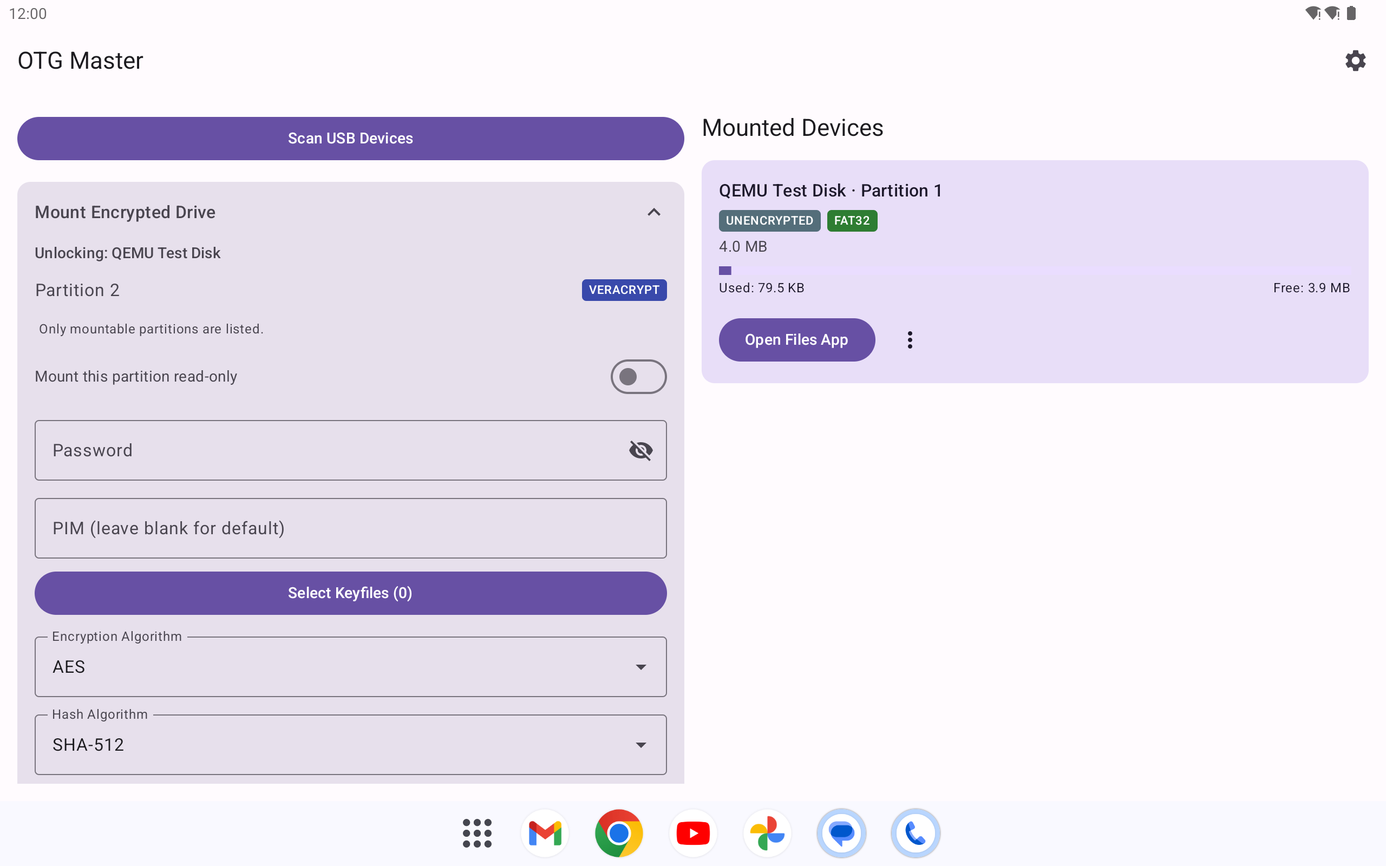
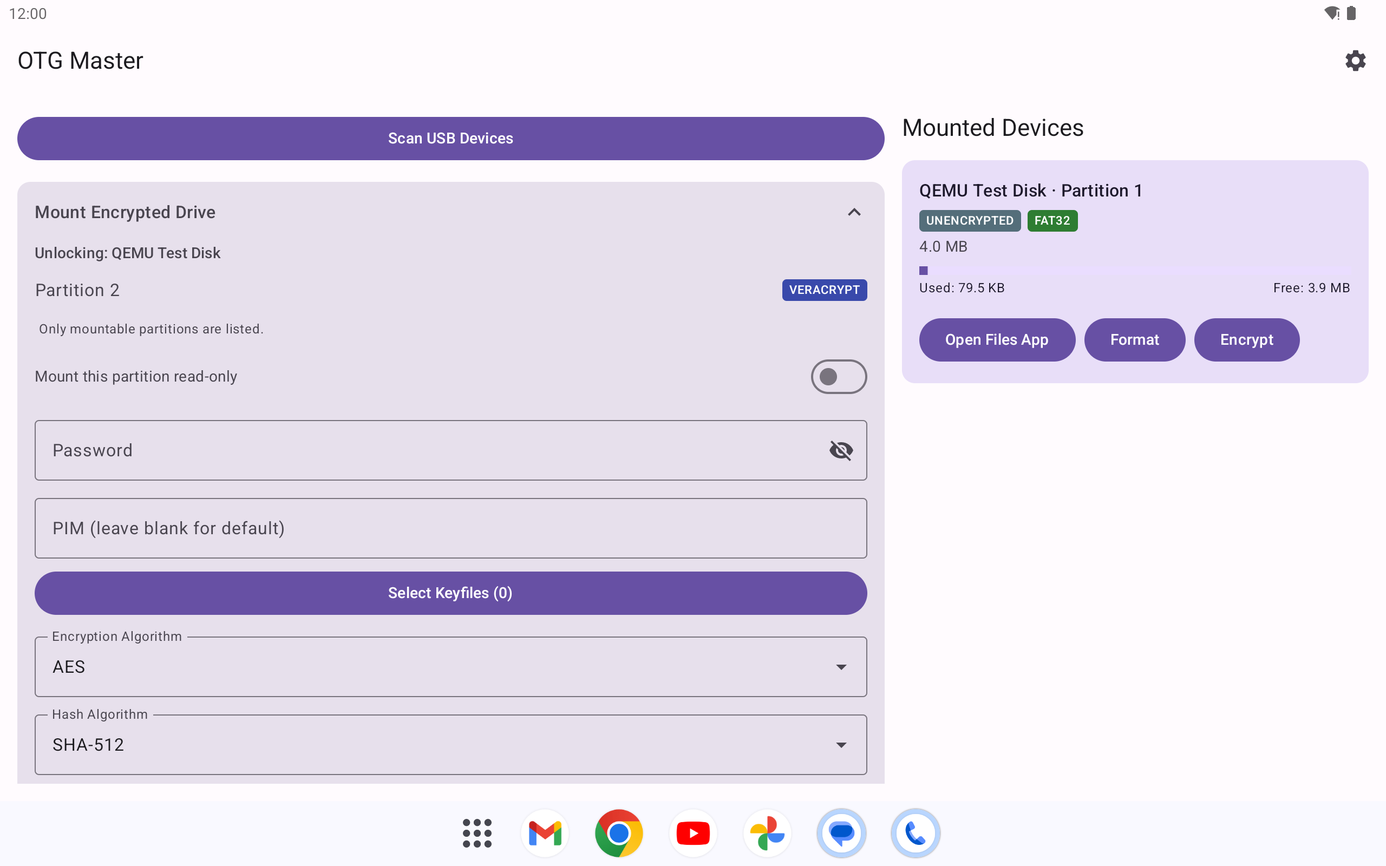
docs: v0.4.2 regression report, the release matrix on 6e281db, store screenshots
The tag's report (docs/test-reports/v0.4.2.md) and the runs it rests on.

BENCHMARK_RUNS: the 0.4.2 release matrix on 6e281db (= de98da6 on main),
10-18 to 10-22. Pixel 7 Pro and OnePlus 7: Drives 1-5, every partition
passed, every drive host-checked; one host finding, D1FAT32 after the Pixel
(dirty flag, free count off by one), from the Pixel's vold mounting plain
FAT32 itself, repaired. Samsung M30: Drives 1-3 pass after reruns; Drive 5
FAILED - two partitions passed, six attempts lost the stick to USB dropouts
(the stick stays enumerated but stops answering; the same sticks pass on
the other phones). The two cut-off writes the host checker caught (NTFS
$Bitmap behind the MFT, a stale FAT32 FSInfo count) are recorded and were
restored; two later cut-offs are not yet host-checked and are listed as
pending. Runs with no result are listed.

The report names three devices on the release build. Rule 3 asks for
four; the user decided to tag now and add the fourth after, since the
release goes to Play's internal track first and can be halted. The report
says so at the top.

Store screenshots:
- 4_mounted (phone): retaken on the OnePlus 7 on 6e281db - VeraCrypt FAT32,
  VeraCrypt exFAT and LUKS1 ext4 cards with the More actions button; the
  old shot showed the 0.4.1 overflow icon.
- 7" and 10" sets: retaken on the Tablet_7inch and Tablet_10inch emulators
  on 6e281db, partitioned_mbr fixture as the QEMU USB drive, demo status
[…]

diff --git a/docs/BENCHMARK_RUNS.md b/docs/BENCHMARK_RUNS.md
@@ -33,6 +33,300 @@ to a row here.
 
 ---
 
+## 2026-10-18 (night) to 2026-10-22 — the 0.4.2 release matrix on `6e281db` (= `de98da6`)
+
+The matrix restarted on the final 0.4.2 tree once #74–#78 were in. Every report below says
+`build: 0.4.2 (48) commit 6e281db`, checked against the APK installed before each drive; `6e281db`
+is #78's head and landed on `main` as `de98da6` with an identical tree (hash table in the section
+below). Same procedure as the round below: one partition per run via `sequence_runs.sh` →
+`start_run.sh`, the "full" section set, password123 / PIM 1 / AES / SHA-512 unless the partition
+says otherwise (Drive 5 partitions carry their own cipher, KDF and PIM). After each drive's runs
+it went to the laptop: `read_matrix_drive.sh` + `verify_matrix_drive.py` (Drives 1–4), or
+`verify_volume.sh` + manifest hashes per partition (Drive 5, `hostcheck_d5.sh`).
+
+Devices: **Pixel 7 Pro** (Android 17, SDK 37), **OnePlus 7** (GM1901, LineageOS 23.2, Android 16),
+**Samsung M30** (SM-M305F, Android 10). Drive 5 exists twice: the original (…EF449) and a copy
+built from the same script (…EF455).
+
+| | Drive 1 | Drive 2 | Drive 3 | Drive 4 | Drive 5 |
+|---|---|---|---|---|---|
+| Pixel 7 Pro | 10/10 ✓ · host: D1FAT32 NOT CLEAN (vold, below) | 10/10 ✓ · ALL CLEAN | 10/10 ✓ · ALL CLEAN | 10/10 ✓ · ALL CLEAN | 10/10 ✓ (…EF455) · ALL CLEAN |
+| OnePlus 7 | 10/10 ✓ · ALL CLEAN | 10/10 ✓ · ALL CLEAN | 10/10 ✓ · ALL CLEAN | 10/10 ✓ · ALL CLEAN | 10/10 ✓ (…EF449, p10 rerun) · ALL CLEAN |
+| Samsung M30 | 10/10 ✓ (D1EXT4 rerun) · ALL CLEAN | 10/10 ✓ · ALL CLEAN | 10/10 ✓ (two reruns) · ALL CLEAN | not run | **FAILED** — 2 partitions passed, then USB dropouts (below) |
+
+### Pixel 7 Pro · Drive 1 · 10-20 07:21 – 09:34
+
+| Partition | Finished | bigwrite write / read-back (MB/s) | Fixtures | Verdict |
+|---|---|---|---|---|
+| D1FAT32 | 07:34 | 8.17 / 35.75 | ALL 20995 MATCHED | all ✓ |
+| D1EXFAT | 07:45 | 9.38 / 38.46 | ALL 20963 MATCHED | all ✓ |
+| D1NTFS | 08:05 | 3.16 / 35.27 | ALL 21052 MATCHED | all ✓ |
+| D1EXT4 | 08:18 | 6.17 / 41.87 | ALL 20854 MATCHED | all ✓ |
+| D1BLEXFAT | 08:32 | 6.61 / 27.22 | ALL 20898 MATCHED | all ✓ |
+| D1BLNTFS | 08:55 | 2.81 / 27.99 | ALL 20905 MATCHED | all ✓ |
+| D1APFSCI | 09:05 | — | ALL 22129 MATCHED | read sections ✓; writes SKIPPED (ro) |
+| D1APFSCS | 09:14 | — | ALL 22024 MATCHED | read sections ✓; writes SKIPPED (ro) |
+| D1APFSECI | 09:24 | — | ALL 21777 MATCHED | read sections ✓; writes SKIPPED (ro) |
+| D1APFSECS | 09:34 | — | ALL 21911 MATCHED | read sections ✓; writes SKIPPED (ro) |
+Laptop: 9 of 10 CLEAN. **D1FAT32 NOT CLEAN**: dirty bit set, boot sector and backup differ at
+offset 65 (01/00 — the volume-dirty flag), free-cluster summary off by one (83612 vs 83611).
+Every fixture and the big write matched. The Pixel's vold mounts a plain FAT32 partition with the
+kernel's own vfat driver as soon as the drive is attached, which sets that flag; the drive was
+pulled with vold's mount still up. The app's own writes go through its own driver, and the same
+partition was clean after the OnePlus and M30 runs. Repaired with `fsck.fat -a` (the user), clean.
+
+### Pixel 7 Pro · Drive 2 · 10-19 07:19 – 10:35
+
+| Partition | Finished | bigwrite write / read-back (MB/s) | Fixtures | Verdict |
+|---|---|---|---|---|
+| D2VCFAT32 | 07:35 | 6.72 / 25.32 | ALL 20958 MATCHED | all ✓ |
+| D2VCEXFAT | 07:53 | 7.32 / 26.74 | ALL 20974 MATCHED | all ✓ |
+| D2VCNTFS | 08:21 | 2.76 / 26.33 | ALL 20919 MATCHED | all ✓ |
+| D2VCEXT4 | 08:39 | 5.46 / 28.56 | ALL 21071 MATCHED | all ✓ |
+| D2L1FAT32 | 08:55 | 7.05 / 27.62 | ALL 20953 MATCHED | all ✓ |
+| D2L1EXT4 | 09:14 | 5.28 / 28.01 | ALL 21024 MATCHED | all ✓ |
+| D2L2EXFAT | 09:32 | 7.47 / 26.29 | ALL 20942 MATCHED | all ✓ |
+| D2L4EXT4 | 09:51 | 5.08 / 29.13 | ALL 20888 MATCHED | all ✓ |
+| D2L4NTFS | 10:18 | 2.72 / 27.55 | ALL 20927 MATCHED | all ✓ |
+| D2BLFAT32 | 10:35 | 5.88 / 28.93 | ALL 20974 MATCHED | all ✓ |
+Laptop: ALL CLEAN.
+
+### Pixel 7 Pro · Drive 3 · 10-19 19:16 – 22:33
+
+| Partition | Finished | bigwrite write / read-back (MB/s) | Fixtures | Verdict |
+|---|---|---|---|---|
+| D3EXT2 | 19:21 | — | ALL 21821 MATCHED | read sections ✓; writes SKIPPED (ro) |
+| D3EXT3 | 19:25 | — | ALL 21883 MATCHED | read sections ✓; writes SKIPPED (ro) |
+| D3L1EXFAT | 19:44 | 7.47 / 26.14 | ALL 20929 MATCHED | all ✓ |
+| D3L1NTFS | 20:11 | 2.83 / 26.90 | ALL 20920 MATCHED | all ✓ |
+| D3L2FAT32 | 20:29 | 7.00 / 28.68 | ALL 20913 MATCHED | all ✓ |
+| D3L2NTFS | 20:59 | 2.62 / 25.62 | ALL 20925 MATCHED | all ✓ |
+| D3L2EXT4 | 21:18 | 5.17 / 26.62 | ALL 20939 MATCHED | all ✓ |
+| D3L4FAT32 | 21:40 | 4.32 / 28.76 | ALL 20972 MATCHED | all ✓ |
+| D3L4EXFAT | 22:05 | 4.36 / 27.05 | ALL 20910 MATCHED | all ✓ |
+| D3BLNTFS | 22:33 | 2.72 / 27.48 | ALL 21023 MATCHED | all ✓ |
+Laptop: ALL CLEAN.
+
+### Pixel 7 Pro · Drive 4 · 10-19 17:43 – 19:00
+
+| Partition | Finished | bigwrite write / read-back (MB/s) | Fixtures | Verdict |
+|---|---|---|---|---|
+| D4L1EXT2 | 17:48 | — | ALL 21870 MATCHED | read sections ✓; writes SKIPPED (ro) |
+| D4L1EXT3 | 17:53 | — | ALL 21875 MATCHED | read sections ✓; writes SKIPPED (ro) |
+| D4L2EXT2 | 17:58 | — | ALL 21678 MATCHED | read sections ✓; writes SKIPPED (ro) |
+| D4L2EXT3 | 18:03 | — | ALL 21971 MATCHED | read sections ✓; writes SKIPPED (ro) |
+| D4L4EXT2 | 18:08 | — | ALL 21916 MATCHED | read sections ✓; writes SKIPPED (ro) |
+| D4L4EXT3 | 18:13 | — | ALL 21846 MATCHED | read sections ✓; writes SKIPPED (ro) |
+| D4VCEXT2 | 18:18 | — | ALL 21948 MATCHED | read sections ✓; writes SKIPPED (ro) |
+| D4VCEXT3 | 18:23 | — | ALL 21956 MATCHED | read sections ✓; writes SKIPPED (ro) |
+| D4BLFAT32 | 18:41 | 6.26 / 26.52 | ALL 20918 MATCHED | all ✓ |
+| D4BLEXFAT | 19:00 | 7.40 / 25.96 | ALL 21073 MATCHED | all ✓ |
+Laptop: ALL CLEAN.
+
+### Pixel 7 Pro · Drive 5 (copy, …EF455) · 10-18 21:16 – 10-19 01:39
+
+| Partition | Finished | bigwrite write / read-back (MB/s) | Fixtures | Verdict |
+|---|---|---|---|---|
+| VC_ATS_ARGON_PIM0 | 21:58 | 3.82 / 5.86 | ALL 20902 MATCHED | all ✓ |
+| VC_STA_ARGON_PIM1 | 22:31 | 3.08 / 6.82 | ALL 20965 MATCHED | all ✓ |
+| VC_TWO_SHA512_PIM0 | 23:07 | 2.62 / 20.88 | ALL 20962 MATCHED | all ✓ |
+| VC_AT_ARGON_PIM1 | 23:26 | 4.76 / 17.11 | ALL 20950 MATCHED | all ✓ |
+| VC_SA_SHA512_PIM1 | 23:51 | 4.27 / 7.20 | ALL 20915 MATCHED | all ✓ |
+| VC_TS_ARGON_PIM31 | 01:23 | 3.38 / 7.65 | ALL 20984 MATCHED | all ✓ |
+| FMT_EXFAT | 01:28 | — | ALL 20027 MATCHED | all ✓ (no bigwrite: Format/Encrypt target) |
+| FMT_FAT32 | 01:32 | — | ALL 20027 MATCHED | all ✓ (no bigwrite: Format/Encrypt target) |
+| ENC_TO_EXFAT | 01:35 | — | ALL 20027 MATCHED | all ✓ (no bigwrite: Format/Encrypt target) |
+| ENC_TO_FAT32 | 01:39 | — | ALL 20027 MATCHED | all ✓ (no bigwrite: Format/Encrypt target) |
+FMT_* and ENC_TO_* are the Format/Encrypt targets: the app formats or encrypts them as the run's
+first step, so they run the read sections and fixtures only. Laptop (`hostcheck-042g-EF455`):
+all ten partitions CLEAN.
+
+### OnePlus 7 · Drive 1 · 10-19 17:43 – 20:27
+
+| Partition | Finished | bigwrite write / read-back (MB/s) | Fixtures | Verdict |
+|---|---|---|---|---|
+| D1FAT32 | 17:57 | 8.19 / 15.96 | ALL 20995 MATCHED | all ✓ |
+| D1EXFAT | 18:12 | 8.87 / 18.15 | ALL 20963 MATCHED | all ✓ |
+| D1NTFS | 18:34 | 3.03 / 26.65 | ALL 21052 MATCHED | all ✓ |
+| D1EXT4 | 18:49 | 6.36 / 18.89 | ALL 20854 MATCHED | all ✓ |
+| D1BLEXFAT | 19:08 | 5.74 / 12.92 | ALL 20898 MATCHED | all ✓ |
+| D1BLNTFS | 19:34 | 2.76 / 17.52 | ALL 20905 MATCHED | all ✓ |
+| D1APFSCI | 19:46 | — | ALL 22129 MATCHED | read sections ✓; writes SKIPPED (ro) |
+| D1APFSCS | 19:58 | — | ALL 22024 MATCHED | read sections ✓; writes SKIPPED (ro) |
+| D1APFSECI | 20:13 | — | ALL 21777 MATCHED | read sections ✓; writes SKIPPED (ro) |
+| D1APFSECS | 20:27 | — | ALL 21911 MATCHED | read sections ✓; writes SKIPPED (ro) |
+Laptop: ALL CLEAN.
+
+### OnePlus 7 · Drive 2 · 10-19 21:03 – 10-20 01:05
+
+| Partition | Finished | bigwrite write / read-back (MB/s) | Fixtures | Verdict |
+|---|---|---|---|---|
+| D2VCFAT32 | 21:24 | 6.57 / 13.46 | ALL 20958 MATCHED | all ✓ |
+| D2VCEXFAT | 21:48 | 6.21 / 12.90 | ALL 20974 MATCHED | all ✓ |
+| D2VCNTFS | 22:19 | 2.80 / 16.91 | ALL 20919 MATCHED | all ✓ |
+| D2VCEXT4 | 22:42 | 5.63 / 13.08 | ALL 21071 MATCHED | all ✓ |
+| D2L1FAT32 | 23:03 | 6.65 / 14.14 | ALL 20953 MATCHED | all ✓ |
+| D2L1EXT4 | 23:26 | 5.42 / 13.11 | ALL 21024 MATCHED | all ✓ |
+| D2L2EXFAT | 23:50 | 6.30 / 12.84 | ALL 20942 MATCHED | all ✓ |
+| D2L4EXT4 | 00:14 | 5.24 / 13.17 | ALL 20888 MATCHED | all ✓ |
+| D2L4NTFS | 00:44 | 2.80 / 16.88 | ALL 20927 MATCHED | all ✓ |
+| D2BLFAT32 | 01:05 | 6.70 / 14.83 | ALL 20974 MATCHED | all ✓ |
+Laptop: ALL CLEAN.
+
+### OnePlus 7 · Drive 3 · 10-19 07:19 – 11:15
+
+| Partition | Finished | bigwrite write / read-back (MB/s) | Fixtures | Verdict |
+|---|---|---|---|---|
+| D3EXT2 | 07:27 | — | ALL 21821 MATCHED | read sections ✓; writes SKIPPED (ro) |
+| D3EXT3 | 07:34 | — | ALL 21883 MATCHED | read sections ✓; writes SKIPPED (ro) |
+| D3L1EXFAT | 07:59 | 6.29 / 12.88 | ALL 20929 MATCHED | all ✓ |
+| D3L1NTFS | 08:30 | 2.85 / 16.94 | ALL 20920 MATCHED | all ✓ |
+| D3L2FAT32 | 08:52 | 6.80 / 14.05 | ALL 20913 MATCHED | all ✓ |
+| D3L2NTFS | 09:24 | 2.81 / 16.54 | ALL 20925 MATCHED | all ✓ |
+| D3L2EXT4 | 09:48 | 5.46 / 13.06 | ALL 20939 MATCHED | all ✓ |
+| D3L4FAT32 | 10:13 | 4.51 / 14.03 | ALL 20972 MATCHED | all ✓ |
+| D3L4EXFAT | 10:44 | 4.29 / 13.02 | ALL 20910 MATCHED | all ✓ |
+| D3BLNTFS | 11:15 | 2.75 / 17.51 | ALL 21023 MATCHED | all ✓ |
+Laptop: ALL CLEAN.
+
+### OnePlus 7 · Drive 4 · 10-20 07:22 – 09:11
+
+| Partition | Finished | bigwrite write / read-back (MB/s) | Fixtures | Verdict |
+|---|---|---|---|---|
+| D4L1EXT2 | 07:30 | — | ALL 21870 MATCHED | read sections ✓; writes SKIPPED (ro) |
+| D4L1EXT3 | 07:38 | — | ALL 21875 MATCHED | read sections ✓; writes SKIPPED (ro) |
+| D4L2EXT2 | 07:46 | — | ALL 21678 MATCHED | read sections ✓; writes SKIPPED (ro) |
+| D4L2EXT3 | 07:54 | — | ALL 21971 MATCHED | read sections ✓; writes SKIPPED (ro) |
+| D4L4EXT2 | 08:01 | — | ALL 21916 MATCHED | read sections ✓; writes SKIPPED (ro) |
+| D4L4EXT3 | 08:09 | — | ALL 21846 MATCHED | read sections ✓; writes SKIPPED (ro) |
+| D4VCEXT2 | 08:17 | — | ALL 21948 MATCHED | read sections ✓; writes SKIPPED (ro) |
+| D4VCEXT3 | 08:25 | — | ALL 21956 MATCHED | read sections ✓; writes SKIPPED (ro) |
+| D4BLFAT32 | 08:47 | 6.15 / 14.09 | ALL 20918 MATCHED | all ✓ |
+| D4BLEXFAT | 09:11 | 6.61 / 13.58 | ALL 21073 MATCHED | all ✓ |
+Laptop: ALL CLEAN.
+
+### OnePlus 7 · Drive 5 (original, …EF449) · 10-18 21:28 – 10-20 10:10
+
+| Partition | Finished | bigwrite write / read-back (MB/s) | Fixtures | Verdict |
+|---|---|---|---|---|
+| VC_ATS_ARGON_PIM0 | 22:41 | 3.53 / 5.70 | ALL 20027 MATCHED | all ✓ |
+| VC_STA_ARGON_PIM1 | 23:18 | 2.58 / 6.05 | ALL 20965 MATCHED | all ✓ |
+| VC_TWO_SHA512_PIM0 | 23:56 | 2.80 / 13.62 | ALL 20962 MATCHED | all ✓ |
+| VC_AT_ARGON_PIM1 | 00:20 | 3.71 / 10.30 | ALL 20950 MATCHED | all ✓ |
+| VC_SA_SHA512_PIM1 | 00:46 | 3.88 / 6.57 | ALL 20027 MATCHED | all ✓ |
+| VC_TS_ARGON_PIM31 | 02:21 | 2.99 / 6.74 | ALL 20984 MATCHED | all ✓ |
+| FMT_EXFAT | 02:27 | — | ALL 20027 MATCHED | all ✓ (no bigwrite: Format/Encrypt target) |
+| FMT_FAT32 | 02:32 | — | ALL 20027 MATCHED | all ✓ (no bigwrite: Format/Encrypt target) |
+| ENC_TO_EXFAT | 02:35 | — | ALL 20027 MATCHED | all ✓ (no bigwrite: Format/Encrypt target) |
+| ENC_TO_FAT32 | 02:37 | — | — | no result (nothing mounted; dropped) |
+| ENC_TO_FAT32 | 10:10 | — | ALL 20027 MATCHED | all ✓ (no bigwrite: Format/Encrypt target) |
+The first ENC_TO_FAT32 (02:37) mounted nothing — the phone had locked — and was rerun on 10-20.
+VC_ATS_ARGON_PIM0 and VC_SA_SHA512_PIM1 matched 20027 fixtures rather than the copy's 20902/20915:
+on this stick those two partitions held a 20027-file fixture set at the time (p5 still does; p1
+was rebuilt with 20902 on 10-22), and the app checks against the manifest on the partition. Laptop (`hostcheck-042g-EF449`, `hostcheck-042h-op-EF449` for p10):
+all ten CLEAN.
+
+### Samsung M30 · Drive 1 · 10-21 06:09 – 10:08
+
+| Partition | Finished | bigwrite write / read-back (MB/s) | Fixtures | Verdict |
+|---|---|---|---|---|
+| D1FAT32 | 06:28 | 5.25 / 13.58 | ALL 20995 MATCHED | all ✓ |
+| D1EXFAT | 06:49 | 5.65 / 14.95 | ALL 20963 MATCHED | all ✓ |
+| D1NTFS | 07:19 | 2.25 / 18.98 | ALL 21052 MATCHED | all ✓ |
+| D1EXT4 | 07:26 | — | — | no result (nothing mounted; dropped) |
+| D1BLEXFAT | 07:56 | 3.51 / 8.88 | ALL 20898 MATCHED | all ✓ |
+| D1BLNTFS | 08:32 | 2.01 / 11.30 | ALL 20905 MATCHED | all ✓ |
+| D1APFSCI | 08:49 | — | ALL 22129 MATCHED | read sections ✓; writes SKIPPED (ro) |
+| D1APFSCS | 09:05 | — | ALL 22024 MATCHED | read sections ✓; writes SKIPPED (ro) |
+| D1APFSECI | 09:26 | — | ALL 21777 MATCHED | read sections ✓; writes SKIPPED (ro) |
+| D1APFSECS | 09:47 | — | ALL 21911 MATCHED | read sections ✓; writes SKIPPED (ro) |
+| D1EXT4 | 10:08 | 4.42 / 15.88 | ALL 20854 MATCHED | all ✓ |
+D1EXT4's first run mounted nothing: a burst of USB errors at unlock (75 retries); no result, rerun.
+Laptop: ALL CLEAN.
+
+### Samsung M30 · Drive 2 · 10-20 17:39 – 10-21 02:53
+
+| Partition | Finished | bigwrite write / read-back (MB/s) | Fixtures | Verdict |
+|---|---|---|---|---|
+| D2VCFAT32 | 18:28 | 4.32 / 8.74 | ALL 20958 MATCHED | all ✓ |
+| D2VCEXFAT | 19:25 | 3.59 / 8.89 | ALL 20974 MATCHED | all ✓ |
+| D2VCNTFS | 20:30 | 1.91 / 10.57 | ALL 20919 MATCHED | all ✓ |
+| D2VCEXT4 | 21:24 | 3.35 / 9.48 | ALL 21071 MATCHED | all ✓ |
+| D2L1FAT32 | 22:16 | 4.32 / 9.34 | ALL 20953 MATCHED | all ✓ |
+| D2L1EXT4 | 23:10 | 3.28 / 9.49 | ALL 21024 MATCHED | all ✓ |
+| D2L2EXFAT | 00:06 | 3.58 / 8.99 | ALL 20942 MATCHED | all ✓ |
+| D2L4EXT4 | 01:00 | 3.24 / 9.57 | ALL 20888 MATCHED | all ✓ |
+| D2L4NTFS | 02:03 | 1.95 / 10.66 | ALL 20927 MATCHED | all ✓ |
+| D2BLFAT32 | 02:53 | 4.35 / 10.28 | ALL 20974 MATCHED | all ✓ |
+Laptop: ALL CLEAN.
+
+### Samsung M30 · Drive 3 · 10-21 10:13 – 10-22 08:50
+
+| Partition | Finished | bigwrite write / read-back (MB/s) | Fixtures | Verdict |
+|---|---|---|---|---|
+| D3EXT2 | 10:25 | — | ALL 21821 MATCHED | read sections ✓; writes SKIPPED (ro) |
+| D3EXT3 | 10:37 | — | ALL 21883 MATCHED | read sections ✓; writes SKIPPED (ro) |
+| D3L1EXFAT | 11:11 | — | — | **FAILED** (bigwrite): java.io.IOException: exFAT write failed at offset 337132679 (0 of 3145728 bytes written):… |
+| D3L1NTFS | 19:27 | 1.99 / 10.52 | ALL 20920 MATCHED | all ✓ |
+| D3L2FAT32 | 20:24 | 4.04 / 9.10 | ALL 20913 MATCHED | all ✓ |
+| D3L2NTFS | 21:33 | 1.95 / 10.49 | ALL 20925 MATCHED | all ✓ |
+| D3L2EXT4 | 22:31 | 3.31 / 9.54 | ALL 20939 MATCHED | all ✓ |
+| D3L4FAT32 | 23:31 | 2.90 / 9.45 | ALL 20972 MATCHED | all ✓ |
+| D3L4EXFAT | 00:13 | — | — | **FAILED** (bigwrite): java.io.IOException: exFAT write failed at offset 1175425777 (0 of 1048576 bytes written):… |
+| D3L1EXFAT | 06:37 | 3.87 / 8.95 | ALL 20929 MATCHED | all ✓ |
+| D3L4EXFAT | 07:43 | 2.47 / 9.07 | ALL 20910 MATCHED | all ✓ |
+| D3BLNTFS | 08:50 | 1.94 / 11.43 | ALL 21023 MATCHED | all ✓ |
+D3L1EXFAT and D3L4EXFAT each lost the stick in the big write (36 failed transfers, the device
+never answered again until replugged); both reran clean. Laptop after the failures and after the
+reruns (two read-backs): ALL CLEAN.
+
+### Samsung M30 · Drive 5 — **FAILED**, USB dropouts
+
+| Partition | Finished | bigwrite write / read-back (MB/s) | Fixtures | Verdict |
+|---|---|---|---|---|
+| copy 10-19 · VC_ATS_ARGON_PIM0 | 21:42 | — | — | **FAILED** (seq read, random read, write verify, unaligned, correctness, bigwrite): java.io.IOException: Item already exists!… |
+| copy 10-20 · VC_ATS_ARGON_PIM0 | 11:58 | 2.11 / 2.59 | ALL 20902 MATCHED | all ✓ |
+| copy 10-20 · VC_STA_ARGON_PIM1 | 13:36 | 1.35 / 2.80 | ALL 20965 MATCHED | all ✓ |
+| copy 10-20 · VC_TWO_SHA512_PIM0 | 14:43 | 1.84 / - | — | **FAILED** (bigwrite, fixtures): java.io.IOException: NTFS directory listing failed: I/O error (EIO)… |
+| copy 10-22 · VC_TWO_SHA512_PIM0 | 09:07 | — | — | no result (nothing mounted; dropped) |
+| copy 10-22 · VC_AT_ARGON_PIM1 | 09:24 | — | — | **FAILED** (bigwrite): java.io.IOException: exFAT write failed at offset 656973435 (0 of 777777 bytes written): -… |
+| original 10-22 · VC_ATS_ARGON_PIM0 | 05:26 | — | — | **FAILED** (bigwrite, fixtures): java.io.IOException: read failed: chunk of 8 blocks at 5168648 (request was 8 blocks at 51… |
+| original 10-22 · VC_ATS_ARGON_PIM0 | 11:50 | 1.07 / 1.08 | — | **FAILED** (fixtures): java.io.IOException: read failed: chunk of 32 blocks at 1062720 (request was 256 blocks at… |
+The copy (…EF455) on 10-19, 10-20 and 10-22 09:03; the original (…EF449) on 10-22 04:45 and 09:28. Every
+failure is the same event: a transfer times out (`result == -1 errno 0`), Reset Recovery and six
+retries five seconds apart get no answer, and the stick stays enumerated on the bus (checked on
+the M30 after the last one: `154b:1006 … 071C48F5FB0EF449`, 480 Mbit/s) but never responds again
+until replugged. The same build and sticks pass all ten partitions on the Pixel and the OnePlus;
+on the M30, Drives 1 and 2 see at most one or two recovered retries per run, while Drive 3 and
+both Drive 5 sticks lose the link. Drive 5 is the most exposed: VeraCrypt cascades with Argon2
+run at about 1 MB/s on this phone, so a partition takes over two hours. Run 3 on the copy passed two partitions
+before losing the stick in the third; the last attempt on the original passed the big write and
+dropped 47 minutes later in the fixture read.
+
+What the cut-offs left, from the laptop:
+- **…EF455 p3 (VC_TWO_SHA512_PIM0, NTFS), 10-20:** `ntfs_check`: 191 clusters in use but free in
+  `$Bitmap` — the MFT record was written and the bitmap was not. Restored with `make_d5_stick.sh`,
+  CLEAN, rebaselined. Writing the bitmap before the record would leave leaked clusters instead of
+  doubly-owned ones; noted for 0.4.3.
+- **…EF449 p1 (VC_ATS_ARGON_PIM0, FAT32), 10-22 05:26:** free-cluster summary wrong (917094 vs
+  1451416) — FSInfo not rewritten. Restored, CLEAN (20902 fixtures), rebaselined.
+- …EF455 p1/p2 after run 3: CLEAN.
+- **Pending:** …EF455 p4 (cut off 10-22 09:24, exFAT) and …EF449 p1 (dropped in a read, 10-22
+  11:50) have not been back on the laptop yet.
+
+A full USB reset (`USBDEVFS_RESET`) after Reset Recovery fails is the one recovery step libaums
+does not try (`resetDevice()` exists and is never called). Planned for 0.4.3, to be tested on the
+M30 since it reproduces there.
+
+### Runs that produced no result
+
+- **M30, D1EXT4, 10-21 07:26:** USB errors at unlock, nothing mounted.
+- **M30, D5 copy VC_TWO_SHA512_PIM0, 10-22 09:07:** the same, at unlock.
+- **M30, D5 copy VC_ATS_ARGON_PIM0, 10-19 22:11:** USB errors from the start; stopped, no report.
+- **OnePlus 7, D5 ENC_TO_FAT32, 10-19 02:37:** the phone had locked; nothing mounted; rerun 10-20.
+
+---
+
 ## 2026-10-16 (night) to 2026-10-18 — the 0.4.2 release-candidate matrix on `325548b` / `b7810ee`, and three changes measured on top
 
 The first 0.4.2 matrix round. `325548b` and `b7810ee` are the same tree (#68 rebase-merged one onto

diff --git a/docs/test-reports/v0.4.2.md b/docs/test-reports/v0.4.2.md
@@ -1,0 +1,96 @@
+# v0.4.2 (versionCode 48) — regression report
+
+Required by `AGENTS.md` commit rule 3. Every run is adb-driven and recorded in full in
+[`../BENCHMARK_RUNS.md`](../BENCHMARK_RUNS.md) ("the 0.4.2 release matrix on `6e281db`"), which is
+the source for every figure here.
+
+**Rule 3 asks for four devices; this report has three on the release build.** The fourth (the
+realme 8, or another phone) will be run after the tag, on the user's decision: the release goes to
+Play's internal track first and its rollout can be halted. This file is updated when that run is in.
+
+## Build under test
+
+Every report is stamped `build: 0.4.2 (48) commit 6e281db`. `6e281db` is PR #78's head; it landed
+on `main` as `de98da6` with an identical tree, and `de98da6` is the code tagged — the commits after
+it on `main` are documentation, store screenshots and this report.
+
+What the release contains beyond v0.4.1, and so what these runs exercise: VeraCrypt Encrypt (with
+keyfiles) and Format (FAT32/exFAT) of a mounted partition; VeraCrypt Twofish, the five cascades
+and Argon2id; Serpent on the Linux kernel's bitsliced code (~140× faster); the FAT32 write runs
+(V19) with the partial-sector tail fix (V21); drives over 1 TiB; video playback from the Files app;
+reads of capacity and free space moved off the main thread (the Pixel ANR); the tablet two-pane
+layout, the More actions menu, and the "OTG is switched off" hint on OPPO/realme/OnePlus.
+
+## Devices
+
+| Device | Model | Android | SDK |
+|---|---|---|---|
+| Pixel 7 Pro | cheetah | 17 | 37 |
+| OnePlus 7 | GM1901 (LineageOS 23.2) | 16 | 36 |
+| Samsung Galaxy M30 | SM-M305F | 10 | 29 |
+
+Media: five 62 GB PNY USB 3.2.1 FD sticks — Drives 1–4 of the device matrix and Drive 5 (two
+copies, …EF449 and …EF455). Preparation in [`../TEST_DATA.md`](../TEST_DATA.md).
+
+| Drive | What it holds |
+|---|---|
+| 1 | plain FAT32, exFAT, NTFS, ext4; BitLocker exFAT and NTFS; APFS (case-insensitive/sensitive, plain and encrypted) |
+| 2 | VeraCrypt FAT32, exFAT, NTFS, ext4; LUKS1 FAT32, ext4; LUKS2 exFAT; LUKS2-4K ext4, NTFS; BitLocker FAT32 |
+| 3 | plain ext2, ext3; LUKS1 exFAT, NTFS; LUKS2 FAT32, NTFS, ext4; LUKS2-4K FAT32, exFAT; BitLocker NTFS |
+| 4 | LUKS1/LUKS2/LUKS2-4K/VeraCrypt ext2 and ext3 (read-only); BitLocker FAT32, exFAT |
+| 5 | VeraCrypt AES-Twofish-Serpent, Serpent-Twofish-AES, Twofish, AES-Twofish, Serpent-AES, Twofish-Serpent with SHA-512 or Argon2id and PIM 0/1/31; Format targets (exFAT, FAT32); Encrypt targets (to exFAT, to FAT32) |
+
+## What every run checks
+
+- **free, block, dir, path, seq, random, opens** — read paths and timings.
+- **write verify** — 16 MiB of position-dependent content, verified as written, after dropping
+  every cached line, and after a proven unmount/remount.
+- **unaligned** A and B, **correctness** A–G (as in v0.4.0's report).
+- **bigwrite** — a 2.2 GB file and a 245-file tree, read back after a remount.
+- **fixtures** — every file of the partition's manifest against hashes computed on the host.
+- Format/Encrypt targets: the app formats or encrypts the partition first, then the read
+  sections and fixtures run on the result.
+- **Host check afterwards** — each partition's own checker read-only through the kernel
+  (`fsck.fat -n`, `fsck.exfat`, `e2fsck -fn`, an NTFS consistency check, `apfsck`), plus a byte compare of the
+  fixtures (Drives 1–4: `verify_matrix_drive.py`; Drive 5: `verify_volume.sh` + manifest hashes).
+
+## Results
+
+Read-only partitions (APFS, ext2/ext3) run the read sections and fixtures; writes are skipped by
+design.
+
+| | Drive 1 | Drive 2 | Drive 3 | Drive 4 | Drive 5 |
+|---|---|---|---|---|---|
+| Pixel 7 Pro | 10/10 · host 9/10 CLEAN¹ | 10/10 · CLEAN | 10/10 · CLEAN | 10/10 · CLEAN | 10/10 · CLEAN |
+| OnePlus 7 | 10/10 · CLEAN | 10/10 · CLEAN | 10/10 · CLEAN | 10/10 · CLEAN | 10/10 · CLEAN |
+| Samsung M30 | 10/10 · CLEAN | 10/10 · CLEAN | 10/10² · CLEAN | — | **FAILED**³ |
+
+Big-write throughput (2.2 GB, MB/s write / read-back after remount), the range across the
+writable partitions of Drives 1–4: Pixel 2.6–9.4 / 25–42; OnePlus 2.6–8.9 / 13–27; M30 1.9–5.7 / 8.7–19
+(Drive 5's cascades, write: Pixel 2.6–4.8, OnePlus 2.6–3.9, M30 1.1–2.1).
+
+1. **D1FAT32 after the Pixel:** dirty flag set, free-cluster count off by one; all fixtures and the
+   big write matched. The Pixel's vold mounts a plain FAT32 partition itself with the kernel vfat
+   driver when the drive is attached, and the drive was pulled with that mount up. Clean after the
+   OnePlus and M30 runs, which do not auto-mount it. Repaired with `fsck.fat -a`.
+2. **Drive 3 on the M30:** D3L1EXFAT and D3L4EXFAT lost the stick mid-write (USB, below) and passed
+   on rerun; the host check after both is CLEAN.
+3. **Drive 5 on the M30:** two partitions passed (VC_ATS_ARGON_PIM0, VC_STA_ARGON_PIM1); six
+   attempts failed when the stick stopped answering USB transfers. The stick stays enumerated but
+   ignores Reset Recovery until replugged. The same build and sticks pass all ten partitions on the
+   other two phones, and Drives 1 and 2 pass on the M30, so this is recorded as an M30 + PNY-stick
+   link problem rather than a regression; a full USB reset as the next recovery step is planned
+   for 0.4.3. Two cut-off writes left damage the host checker found — NTFS `$Bitmap` behind the
+   MFT (…EF455 p3) and a stale FAT32 FSInfo count (…EF449 p1); both restored. **Not yet
+   host-checked:** …EF455 p4 and …EF449 p1 after the last two dropouts.
+
+## E2E
+
+PR #78's head `6e281db` (= `de98da6`): 56 of 56 passed on three emulators (debug), 2026-10-18; the
+report is in the PR description.
+
+## Not covered
+
+- A fourth device on the release build (see the top).
+- The realme 8 (Android 13) ran Drive 2 read-only on the release candidate `26ef076` for issue #71;
+  its large-transfer failures are open there.
